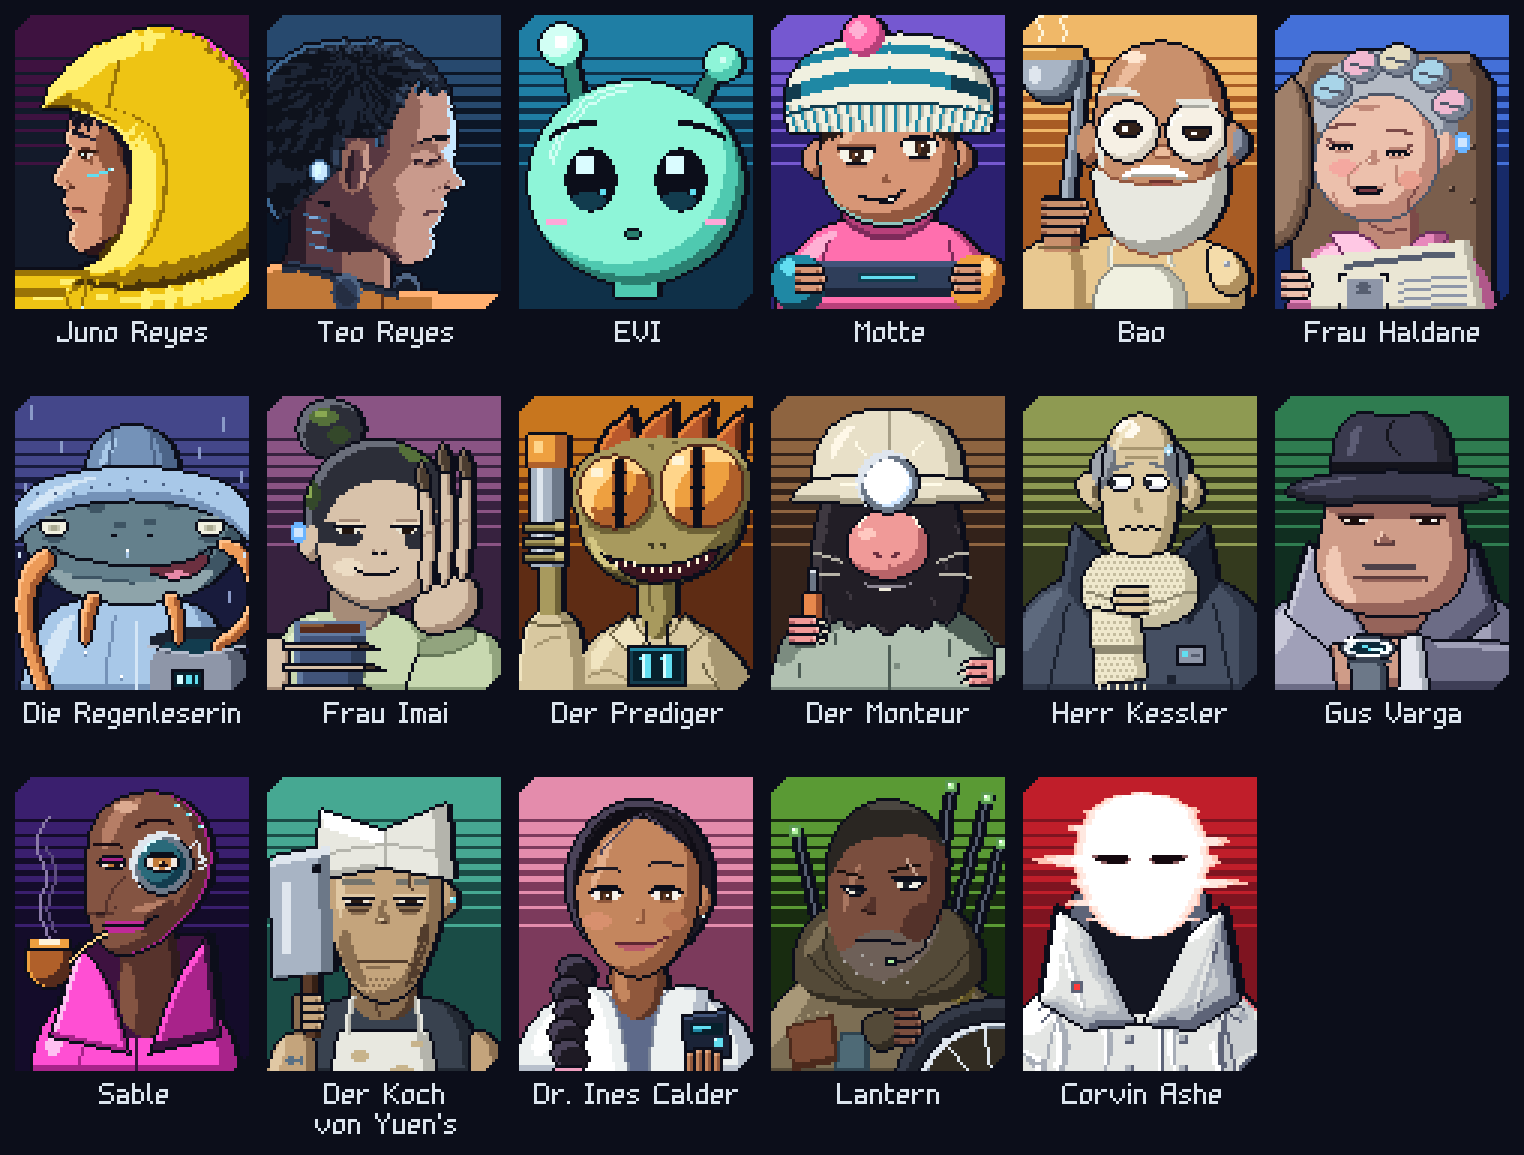
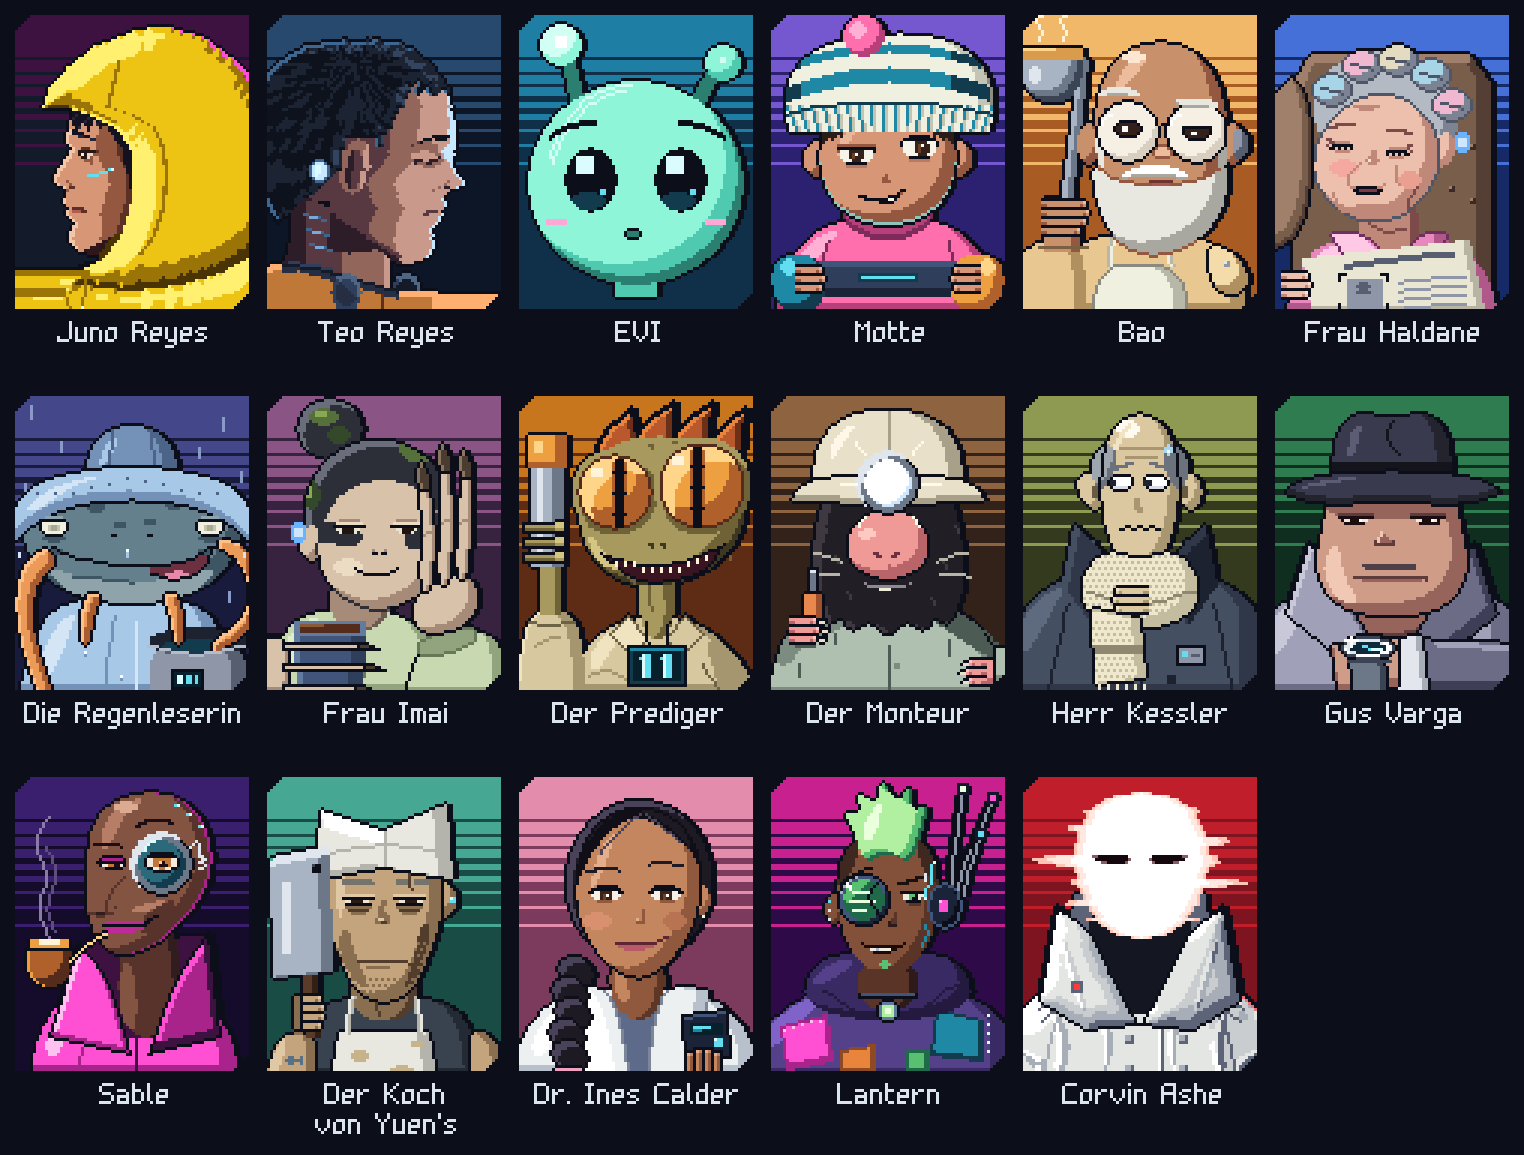
Lantern's portrait is drawn anew, as the user asked, without the wheelchair: an acid green crest in his own colour with shaved sides, a cracked lens with something scrolling in it, a narrowed eye with a bar through the brow, a crooked smirk with a steel tooth, a headset with three antennas with thei

Changed region(s): [[0.4934, 0.6545, 0.6785, 0.9351]]

diff --git a/art/portraits/portraits.px.js b/art/portraits/portraits.px.js
@@ -58,7 +58,7 @@ const PANELS = {
   sable: { top: "#3a1f6e", ground: "#140c2a" },
   koch: { top: "#46a892", ground: "#1a4c46" },
   ines: { top: "#e48cac", ground: "#7c3a5c" },
-  lantern: { top: "#5a9a34", ground: "#182c10" },
+  lantern: { top: "#c8208e", ground: "#2e0a48" },
 }
 const STRIPES = [[0, 15], [16, 4], [21, 3], [25, 3], [30, 2], [34, 2], [39, 1], [44, 1], [50, 1]]
 
@@ -1547,84 +1547,100 @@ portrait("ines", PANELS.ines, (p) => {
 // Turned away and looking back at us over his shoulder, out of a hood he made himself: lean, red stubble, a sharp nose and one eye gone narrow; deciding whether you are the
 // problem. The antennas stand up behind him, their tips lit. At the bottom the tyre of his chair and the hand on it, ready to go.
 portrait("lantern", PANELS.lantern, (p) => {
-  const P = { lit: "#a89878", base: "#7c6e54", dim: "#544a38", deep: "#322c22" }
-  const S = { lit: "#a87660", base: "#7a4e3e", dim: "#54322a", deep: "#2e1a18" }
-  const R = "#a8a4a0"
-  const TIP = "#b0f0a0"
-  // the antennas, from behind his shoulder, each with its light
-  const AER = [[60, 54, 72, 7], [54, 52, 60, 3], [66, 60, 77, 22], [18, 58, 8, 18]]
-  for (const [x0, y0, x1, y1] of AER) { p.line(`${x0},${y0} ${x1},${y1}`, INK, true); p.line(`${x0 + 1},${y0} ${x1 + 1},${y1}`, GREY.dim, true) }
-  // the poncho: one wide slope from the hood, patched from whatever there was, stitched where you can see it
-  const pon = p.part("-6,104! -6,90 6,72 22,62 56,62 72,72 86,88 86,104!", P.base)
-  pon.edge(6, 2, P.dim)
-  pon.tone("-6,92 4,74 18,66 12,78 2,92", P.lit)
+  const S = { lit: "#b57f5e", base: "#83503a", dim: "#5a3426", deep: "#2e1a18" }
+  const G = { lit: "#eaffdc", base: "#b0f0a0", dim: "#58c070", deep: "#1f6a48" }     // his own colour, in his hair and his lens
+  const V = { lit: "#7f63c8", base: "#54418a", dim: "#3a2a64", deep: "#241a40" }     // the poncho
+  const SHAVED = "#3e281f"
+  // the antennas, from the headset, each with its own light: he hears everything
+  const AER = [[62, 38, 74, 7, "#ff4fd3"], [64, 40, 70, 19, "#62def0"], [60, 36, 64, 4, G.lit]]
+  for (const [x0, y0, x1, y1] of AER) { p.line(`${x0},${y0} ${x1},${y1}`, INK, true); p.line(`${x0 + 1},${y0} ${x1 + 1},${y1}`, GREY.base, true) }
+  // the poncho, patched in whatever colours there were
+  const pon = p.part("-6,104! -4,88 8,76 24,70 56,70 72,76 84,88 86,104!", V.base)
+  pon.edge(6, 2, V.dim)
+  pon.tone("-4,90 6,78 20,72 12,82 2,92", V.lit)
   const patch = (path, t, d) => { const q = pon.within(path, t); q.edge(2, 2, d); q.ink(d); return q }
-  patch("6,84! 22,80! 24,96! 8,99!", "#7c4a34", "#4c2a1c")
-  patch("24,86! 34,86! 34,100! 22,100!", "#4e6a76", "#2f4450")
-  patch("58,64! 70,70! 66,78! 54,72!", "#8c7c3c", "#5a4e24")
-  for (let x = 7; x < 22; x += 3) p.put(x, 82 - Math.round((x - 6) / 4), P.lit)                 // stitches
-  // the hood thrown back: soft cloth, slumped in a heap round his neck, behind his head
-  const hood = p.part("10,74 8,60 14,48 26,42 54,42 66,48 72,60 70,74 40,80", P.dim)
-  hood.edge(4, 3, P.deep)
-  hood.tone("10,64 15,51 26,45 19,56", P.base)
-  for (const l of ["13,60 22,70 34,74", "67,58 60,68 48,74", "20,50 18,60 26,70"]) p.line(l, P.deep)
-  // the head, thin, looking back over his left shoulder: the nose to our left; short rough hair, going grey
-  const face = p.part("20,38 20,24 28,12 40,8 52,12 60,24 59,38 57,54 48,66 36,70 26,64 20,52", S.base)
-  face.edge(5, 2, S.dim)
-  face.tone("24,50 26,36 32,28 28,40", S.lit)
-  face.tone("44,48 54,40 52,54 44,62", S.dim)                  // the hollow of the cheek
-  face.tone("18,56 26,60 32,52 44,52 50,58 60,46 60,62 50,70 36,74 24,68", "#6e6058")
-  for (const [x, y] of [[25, 62], [29, 66], [34, 63], [38, 69], [44, 65], [49, 62], [53, 55], [46, 69], [31, 60]]) p.put(x, y, R)
-  // his hair, cropped and rough, and the grey in it
-  const HAIR2 = "#2a2622"
-  face.tone("16,4! 64,4! 64,28 57,23 50,20 40,21 31,22 25,26 20,36 16,34", HAIR2)
-  face.tone("30,9 42,8 52,13 44,12 34,12", "#4a4640")                  // the light on it, and the grey
-  // the headset's arm and its mic, a green light on it
-  p.line("58,44 52,60 42,63", INK)
-  p.rect(39, 61, 4, 3, INK); p.rect(40, 62, 2, 1, TIP)
-  // the wheel beside him, only its top in the panel's corner: a thick tyre, its rim, two spokes
-  const tyre = p.part(oval(76, 110, 36), "#1e222c")
-  tyre.tone(oval(74, 108, 35), "#343a48")
-  tyre.tone(oval(76, 110, 33), "#1e222c")
-  tyre.sep()
-  const rim = tyre.within(oval(76, 110, 29), STEEL.dim)
-  rim.edge(-2, -2, STEEL.lit)
-  rim.ink(INK)
-  rim.within(oval(76, 110, 26), P.deep)
-  for (const [x, y] of [[58, 88], [72, 84], [84, 86]]) p.line(`${x},${y} 76,110`, STEEL.lit)
-  // his arm comes down from under the poncho to the rim
-  const cuff = p.part("30,82 42,78 46,88 36,94", P.dim)
-  cuff.edge(2, 2, P.deep)
-  cuff.sep()
+  patch("4,84! 20,80! 22,96! 6,99!", "#ff4fd3", "#a8238a")
+  patch("56,78! 72,82! 72,96! 54,94!", "#1f88a4", "#123c4e")
+  patch("24,92! 36,90! 36,102! 24,102!", "#e8843c", "#8e4a22")
+  patch("46,92! 54,92! 54,102! 46,102!", G.dim, G.deep)
+  for (let x = 5; x < 20; x += 3) p.put(x, 85 - Math.round((x - 4) / 4), "#ffc0f2")   // stitches
+  for (let y = 80; y < 94; y += 3) p.put(73, y, "#dafcff")
+  // the hood, thrown back in a soft heap
+  const hood = p.part("12,78 13,66 24,59 56,59 67,66 68,78 40,84", V.dim)
+  hood.edge(4, 3, V.deep)
+  hood.tone("13,70 22,62 30,62 20,70", V.base)
+  for (const l of ["18,72 28,78", "62,70 52,78"]) p.line(l, V.deep)
+  // the neck, a cable for a collar
+  const neck = p.part("30,62 50,62 50,76 40,80 30,76", S.dim)
+  neck.edge(3, 0, S.deep)
+  // the head, narrow, the sides shaved
+  const head = p.part("23,42 24,28 31,20 49,20 56,28 57,42 55,54 48,65 40,68 32,65 25,54", S.base)
+  head.edge(4, 2, S.dim)
+  head.tone("26,30 32,22 38,21 30,28", S.lit)
+  head.tone("20,16! 32,16! 30,28 26,36 21,38", SHAVED)
+  head.tone("48,16! 60,16! 60,38 54,36 50,28", SHAVED)
+  // the ear, with its rings
+  const ear = p.part(oval(22, 45, 3, 5), S.base)
+  ear.edge(1, 1, S.dim)
+  // the crest: dyed, stiff, leaning; the loudest thing in the room
+  const crest = p.part("32,30 29,20 25,12 31,14 30,5 36,11 38,1 43,10 48,3 48,13 54,9 51,21 48,30 40,26", G.base)
+  crest.edge(3, 2, G.dim)
+  crest.edge(1, 1, G.deep)
+  crest.tone("31,18 35,12 38,8 37,18 33,24", G.lit)
+  // the headset's cup, lit in magenta
+  const cup = p.part(oval(59, 44, 6, 8), "#1a2337")
+  cup.edge(2, 2, "#0c0e1a")
+  cup.ink("#41547a")
   p.outline()
-  // the antennas' lights, no ink
-  for (const [, , x, y] of AER) { p.rect(x - 1, y - 1, 4, 4, "#5a9a50"); p.rect(x, y, 2, 2, TIP); p.put(x, y, "#ffffff") }
-  // the hand on the rim, from the side
-  fingers(p, 42, 78, [8, 9, 9, 7], S)
-  // the eyes: looking back at us to the corner; the near one narrowed down to a line, the far one still deciding
-  const E = { k: INK, w: "#f0ece0", i: "#20242c", d: S.deep, g: "#ffffff", s: S.dim }
-  p.grid(24, 37, [
+  // what has its own light, without ink
+  for (const [, , x, y, t] of AER) { p.rect(x - 1, y - 1, 4, 4, "#14162a"); p.rect(x, y, 2, 2, t) }
+  p.rect(57, 42, 3, 4, "#ff4fd3"); p.put(57, 42, "#ffc0f2")
+  p.put(20, 48, "#dfe6ee"); p.put(20, 45, "#dfe6ee"); p.put(20, 42, "#62def0")      // the rings in his ear
+  // the collar's cable and the little lantern on it: the name
+  p.rect(30, 73, 20, 2, INK); p.rect(31, 73, 18, 1, "#41547a")
+  p.grid(36, 75, [
+    "..kkkk..",
+    ".kbbbbk.",
+    "kbGGGGbk",
+    "kbGWWGbk",
+    "kbGWWGbk",
+    "kbGGGGbk",
+    ".kbbbbk.",
+    "..kkkk..",
+  ], { k: INK, b: "#617aa0", G: G.base, W: G.lit })
+  // the stubbled sides: a few strokes, a line of circuit inked on the temple and the cheek, cyan
+  p.line("54,30 55,36 52,40", "#62def0"); p.put(52, 41, "#dafcff"); p.put(55, 29, "#dafcff")
+  p.line("52,50 54,54 51,57", "#1f88a4")
+  // the lens over his right eye, on a strap: bright, cracked, with something scrolling in it
+  p.line("24,36 34,31", INK)
+  const rim = p.part(oval(32, 42, 9.5), "#41547a")
+  rim.edge(2, 2, "#1a2337")
+  rim.edge(-1, -1, "#a8b4c4")
+  rim.ink(INK)
+  const lens = rim.within(oval(32, 42, 7), G.deep)
+  lens.tone("24,34! 36,34! 30,40 25,44", G.dim)
+  for (const [x, y, n] of [[28, 39, 7], [27, 42, 9], [28, 45, 5]]) p.rect(x, y, n, 1, G.lit)
+  p.grid(26, 36, ["V.", "VV", ".V"], { V: "#ffffff" })
+  p.line("36,36 33,41 37,47", INK)
+  // the other eye: narrowed, sizing you up, the brow high, a bar through it
+  p.grid(44, 39, [
     "kkkkkkkk.",
-    ".kwiikkkk",
-    "..kwwiik.",
-    "...kkkk..",
-  ], E)
-  p.grid(41, 34, [
-    "kkkkkkkkkkkk",
-    ".kkkkkkkkkkk",
-    "..wwiiiwwwk.",
-    "..wwiigwwk..",
-    "...kkkkkk...",
-  ], E)
-  // the brows: down and in
-  p.grid(23, 32, ["kkk......", "...kkkk..", ".......kk"], { k: "#1a100e" })
-  p.grid(40, 30, ["......kkkkk", "...kkkk....", "kkk........"], { k: "#1a100e" })
-  // the nose: sharp, towards our left, with its own shadow
-  p.grid(31, 41, ["...ss", "...ss", "..sss", ".ssss", "ddsss", "..ddd"], E)
-  // the mouth pressed tight, slanting; he has not finished the sentence
-  p.grid(29, 55, ["kkkkkkkkkkkk.....", "............kkkkk"], E)
-  // a scar through the near brow
-  p.line("46,28 49,33", "#c8a490")
+    ".wwggkww.",
+    ".wwgkkw..",
+    "..kkkkk..",
+    "...dddd..",
+  ], { k: INK, w: "#f0ece0", g: G.dim, d: S.dim })
+  p.grid(43, 34, ["......kkk", "...kkkk..", "kkkk....."], { k: "#1a100e" })
+  p.rect(52, 33, 1, 3, "#dfe6ee")
+  // the nose; a crooked smirk with a steel tooth; a dyed tuft under the lip
+  p.grid(40, 46, ["..s", "..s", ".ss", "dss", "ddd"], { s: S.dim, d: S.deep })
+  p.grid(31, 56, [
+    "k.............k",
+    ".kkkkkkkkkkkkk.",
+    "...wwTwwwwkk...",
+    "....kkkkkk.....",
+  ], { k: "#1a0c0a", w: "#f0ece0", T: "#a8b4c4" })
+  p.grid(37, 62, [".GG.", "GGGG", ".GG."], { G: G.dim })
 })
 
 // With the name under the picture: the portraits for the index and for telling them apart; the plain sprites stay for marketing.

diff --git a/docs/NEXT-SESSION.md b/docs/NEXT-SESSION.md
@@ -116,6 +116,7 @@ Handy, found the hard way:
 **Texts are checked against docs/dialog-style-guide.md** (2026-11-05): Juno no longer says the beat, only "Immer gleich."; until the painted Lull points pulse long, short, short, long (they still pulse evenly) the beat can only be had from EVI's last hint. Actions in a dialogue are `silent`; a choice in quotes is said without them (game/talk.js).
 
 **Still open for me, from 2026-11-06:** what I meant by the menu's picture being out of date (it was rebuilt from today's street and hardly changed: ask me; the scaffold will change it anyway). Whether Ashe stays silent in the quarrel (her three lines are a proposal). Whether the player should see the burn 22 seconds before, for the four tries, or be surprised. Whether Ashe lets Lantern go on purpose (proposal in story §10c). In the portraits, the fitter's snout still reads as a clown's nose and Imai's cup as a stack of books; Sable's face, some skin tones and small details are the painter's (docs/portraits/README.md): to judge. The finer points of how the end feels are to be judged by playing.
+**Lantern's portrait is a new look** that I asked for: an acid green crest, a cracked lens, antennas on a headset, a patched colourful poncho, a little lantern on a cable at the neck, no wheelchair in the picture. His sprite in the feeds still has the hood and no crest: to decide whether it follows.
 **Also still open for me:** why Bao has one arm. The Rain Reader's warm drop of the machine (the Crown gives no water back, and the Ruhekern's servers are there, so it proves nothing). Everything else in the talks stands (story §10b), to be judged by playing.
 
 Open points: in the mock, the chat's replies keep gaps in their numbers ([1], then [4]) where one is hidden; the REC button shows in all of Chapter 1 and only does something in the scene in cam31; the fitter stands on the street, without his scaffold; street scenes can't move the clock, so going out and waiting

diff --git a/docs/portraits/README.md b/docs/portraits/README.md
@@ -23,5 +23,5 @@ Die ganze Reihe: `figuren_index_x3.png`. Jede Figur gibt es als `<id>_x4.png` mi
 | `sable` | Sable | Hehlerei auf dem Drain-Markt, kauft alles, was atmet | |
 | `koch` | Der Koch von Yuen's | steht am Herd und hat alles schon gesehen | |
 | `ines` | Dr. Ines Calder | Schlaftechnikerin in einer Lull-Klinik | **Spoiler** |
-| `lantern` | Lantern | Oskar Lind, Piratensender | **Spoiler** |
+| `lantern` | Lantern | Oskar Lind, Piratensender: grüner Iro, Okular, Antennen, eine kleine Laterne um den Hals; das Porträt zeigt den Rollstuhl nicht | **Spoiler** |
 | `ashe` | Corvin Ashe | der Mann im weißen Regenmantel | **Spoiler** |
